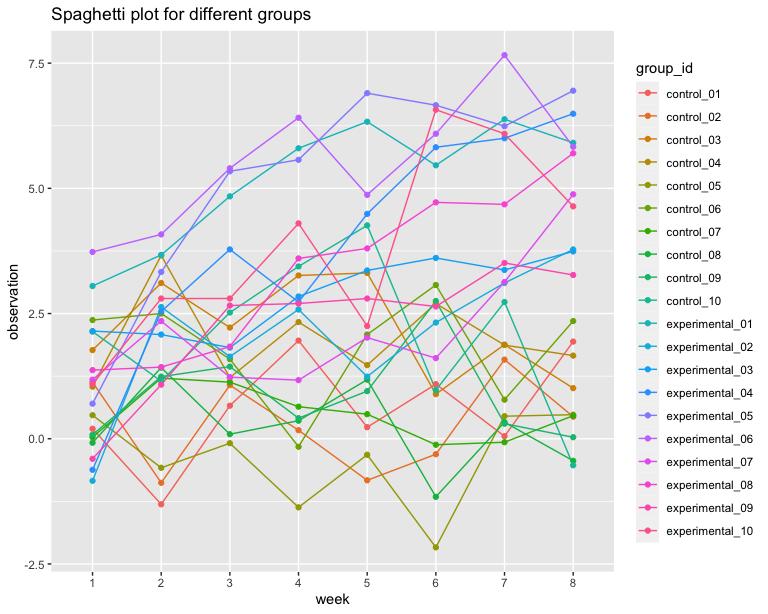
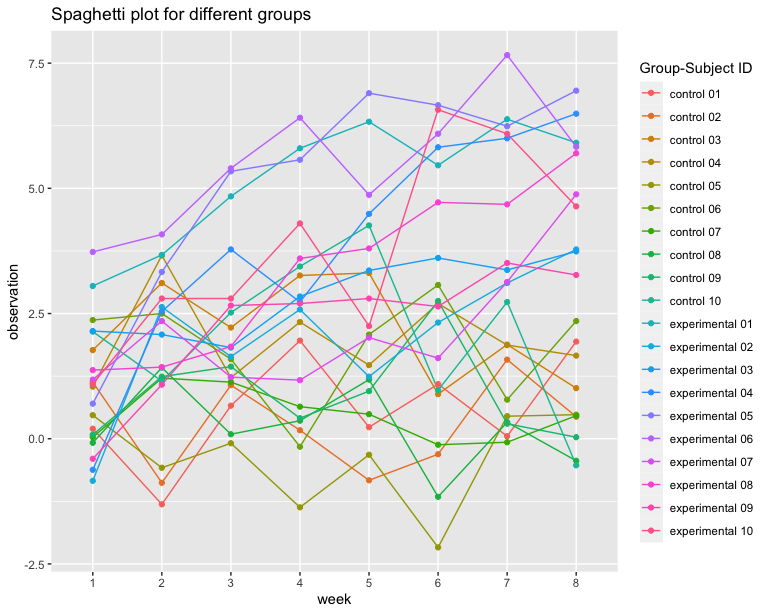
add comment

diff --git a/p8105_hw5_kz2411.md b/p8105_hw5_kz2411.md
@@ -24,7 +24,7 @@ homicide_data_raw <- read_csv("data/homicide-data.csv", na = c("","unknown"))
 The raw data has 52179 observations. There are 12 variables, and they
 are uid, reported\_date, victim\_last, victim\_first, victim\_race,
 victim\_age, victim\_sex, city, state, lat, lon, disposition. Their
-types are numeric and character.
+types are numeric or character.
 
 ``` r
 #clean and group
@@ -135,6 +135,8 @@ city_plot
 ```
 
 <img src="p8105_hw5_kz2411_files/figure-gfm/plot city-1.png" width="80%" />
+Richmond has the lowest estimate and Chicago has the highest estimate
+and is apparently higher than any other city.
 
 ## Problem 2
 
@@ -147,7 +149,7 @@ colnames(file_list) <- c("file")
 ```
 
 ``` r
-#load file
+#load file and save reuslt to combine_data
 combine_data <- file_list %>%
   mutate(
     complete_file = paste(data_path,file,sep = '/'),
@@ -358,18 +360,45 @@ combine_data <- file_list %>%
     ## ℹ Specify the column types or set `show_col_types = FALSE` to quiet this message.
 
 ``` r
+#tidy combine_data
 #rename column
 colnames(combine_data)[1] <- c("group_id")
 
-#clean data
+#clean data and rename group_id
 data_clean <- combine_data %>%
   janitor::clean_names() %>%
   mutate(
     group_id = gsub("con","control",group_id),
     group_id = gsub("exp","experimental",group_id),
     group_id = gsub(".csv","",group_id)
-  )
+  ) %>%
+  separate(group_id,c("group","subject_id"),sep = '_')
+data_clean
 ```
+
+    ## # A tibble: 20 × 10
+    ##    group      subject_id week_1 week_2 week_3 week_4 week_5 week_6 week_7 week_8
+    ##    <chr>      <chr>       <dbl>  <dbl>  <dbl>  <dbl>  <dbl>  <dbl>  <dbl>  <dbl>
+    ##  1 control    01           0.2   -1.31   0.66   1.96   0.23   1.09   0.05   1.94
+    ##  2 control    02           1.13  -0.88   1.07   0.17  -0.83  -0.31   1.58   0.44
+    ##  3 control    03           1.77   3.11   2.22   3.26   3.31   0.89   1.88   1.01
+    ##  4 control    04           1.04   3.66   1.22   2.33   1.47   2.7    1.87   1.66
+    ##  5 control    05           0.47  -0.58  -0.09  -1.37  -0.32  -2.17   0.45   0.48
+    ##  6 control    06           2.37   2.5    1.59  -0.16   2.08   3.07   0.78   2.35
+    ##  7 control    07           0.03   1.21   1.13   0.64   0.49  -0.12  -0.07   0.46
+    ##  8 control    08          -0.08   1.42   0.09   0.36   1.18  -1.16   0.33  -0.44
+    ##  9 control    09           0.08   1.24   1.44   0.41   0.95   2.75   0.3    0.03
+    ## 10 control    10           2.14   1.15   2.52   3.44   4.26   0.97   2.73  -0.53
+    ## 11 experimen… 01           3.05   3.67   4.84   5.8    6.33   5.46   6.38   5.91
+    ## 12 experimen… 02          -0.84   2.63   1.64   2.58   1.24   2.32   3.11   3.78
+    ## 13 experimen… 03           2.15   2.08   1.82   2.84   3.36   3.61   3.37   3.74
+    ## 14 experimen… 04          -0.62   2.54   3.78   2.73   4.49   5.82   6      6.49
+    ## 15 experimen… 05           0.7    3.33   5.34   5.57   6.9    6.66   6.24   6.95
+    ## 16 experimen… 06           3.73   4.08   5.4    6.41   4.87   6.09   7.66   5.83
+    ## 17 experimen… 07           1.18   2.35   1.23   1.17   2.02   1.61   3.13   4.88
+    ## 18 experimen… 08           1.37   1.43   1.84   3.6    3.8    4.72   4.68   5.7 
+    ## 19 experimen… 09          -0.4    1.08   2.66   2.7    2.8    2.64   3.51   3.27
+    ## 20 experimen… 10           1.09   2.8    2.8    4.3    2.25   6.57   6.09   4.64
 
 ``` r
 plot_data <- data_clean %>%
@@ -378,6 +407,9 @@ plot_data <- data_clean %>%
     names_to = "week",
     values_to = "observation",
     names_prefix = "week_"
+  ) %>%
+  mutate(
+    group_id = paste(group,subject_id, sep = " ")
   )
 
 spaghetti_plot <- plot_data %>%
@@ -385,7 +417,8 @@ spaghetti_plot <- plot_data %>%
   geom_line() +
   geom_point() +
   labs(
-    title = "Spaghetti plot for different groups"
+    title = "Spaghetti plot for different groups",
+    color = "Group-Subject ID"
   )
 
 spaghetti_plot
@@ -394,9 +427,9 @@ spaghetti_plot
 <img src="p8105_hw5_kz2411_files/figure-gfm/plot spaghetti-1.png" width="80%" />
 
 From the plot, we can see that those from the experimental arm have
-higher observations than those form the control arm. And observations of
-those from the experimental arm increase over time, while observations
-of those from the control arm fluctuate up and down.
+higher observations than those form the control arm during week 8. And
+observations of those from the experimental arm increase over time,
+while observations of those from the control arm fluctuate up and down.
 
 ## Problem 3
 
@@ -407,7 +440,25 @@ set.seed(10)
 iris_with_missing = iris %>% 
   map_df(~replace(.x, sample(1:150, 20), NA)) %>%
   mutate(Species = as.character(Species))
+iris_with_missing
+```
 
+    ## # A tibble: 150 × 5
+    ##    Sepal.Length Sepal.Width Petal.Length Petal.Width Species
+    ##           <dbl>       <dbl>        <dbl>       <dbl> <chr>  
+    ##  1          5.1         3.5          1.4         0.2 setosa 
+    ##  2          4.9         3            1.4         0.2 setosa 
+    ##  3          4.7         3.2          1.3         0.2 setosa 
+    ##  4          4.6         3.1          1.5        NA   setosa 
+    ##  5          5           3.6          1.4         0.2 setosa 
+    ##  6          5.4         3.9          1.7         0.4 setosa 
+    ##  7         NA           3.4          1.4         0.3 setosa 
+    ##  8          5           3.4          1.5         0.2 setosa 
+    ##  9          4.4         2.9          1.4         0.2 setosa 
+    ## 10          4.9         3.1         NA           0.1 setosa 
+    ## # … with 140 more rows
+
+``` r
 #checking missing
 miss_var_summary(iris_with_missing) %>% knitr::kable(digits = 3)
 ```
@@ -435,7 +486,25 @@ fill_missing = function(x) {
 
 #map fill_missing function
 iris_no_missing <- map_dfr(iris_with_missing,fill_missing)
+iris_no_missing
+```
 
+    ## # A tibble: 150 × 5
+    ##    Sepal.Length Sepal.Width Petal.Length Petal.Width Species
+    ##           <dbl>       <dbl>        <dbl>       <dbl> <chr>  
+    ##  1         5.1          3.5         1.4         0.2  setosa 
+    ##  2         4.9          3           1.4         0.2  setosa 
+    ##  3         4.7          3.2         1.3         0.2  setosa 
+    ##  4         4.6          3.1         1.5         1.19 setosa 
+    ##  5         5            3.6         1.4         0.2  setosa 
+    ##  6         5.4          3.9         1.7         0.4  setosa 
+    ##  7         5.82         3.4         1.4         0.3  setosa 
+    ##  8         5            3.4         1.5         0.2  setosa 
+    ##  9         4.4          2.9         1.4         0.2  setosa 
+    ## 10         4.9          3.1         3.77        0.1  setosa 
+    ## # … with 140 more rows
+
+``` r
 #checking no missing
 miss_var_summary(iris_no_missing) %>% knitr::kable(digits = 3)
 ```
